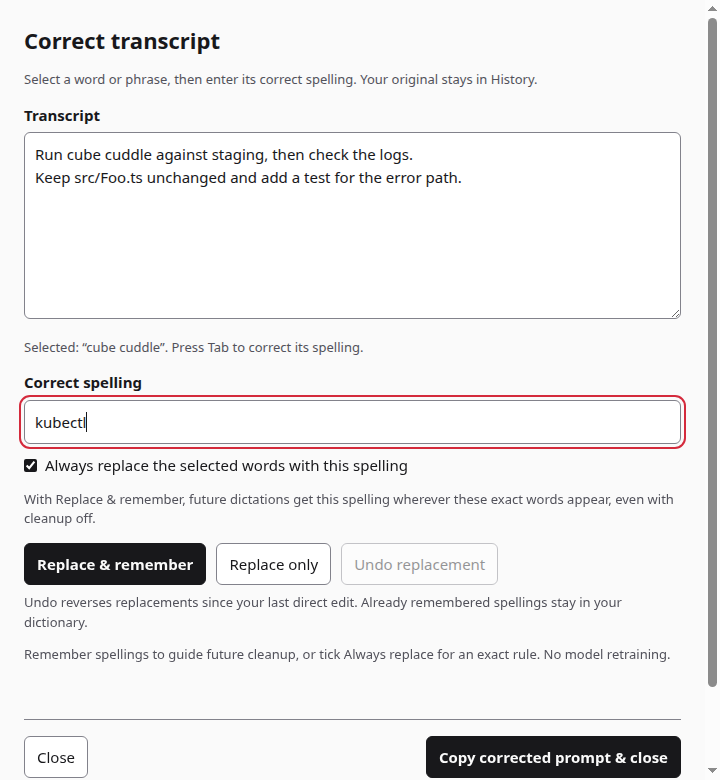
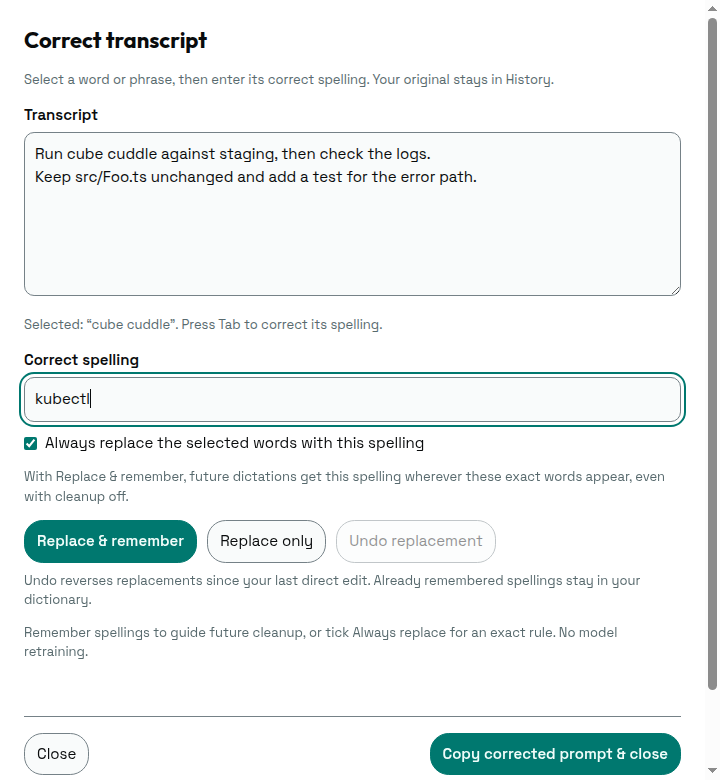
fix: address Maia theme review findings

diff --git a/scripts/screenshots.js b/scripts/screenshots.js
@@ -1,5 +1,5 @@
-// Capture the real windows, staged headlessly. Defaults to docs/screenshots/;
-// set EARHEART_SCREENSHOTS_DIR to save a comparison run elsewhere. Run with:
+// Capture the real windows, staged headlessly. Defaults to docs/screenshots/.
+// Set EARHEART_SCREENSHOTS_DIR to capture the expanded comparison set there.
 //
 //   make screenshots
 //
@@ -18,7 +18,8 @@ const { isolateProfile, assertIsolated } = require("./demo-profile");
 const profile = isolateProfile(app);
 
 const ROOT = path.join(__dirname, "..");
-const OUT = process.env.EARHEART_SCREENSHOTS_DIR || path.join(ROOT, "docs", "screenshots");
+const comparisonDir = process.env.EARHEART_SCREENSHOTS_DIR;
+const OUT = comparisonDir || path.join(ROOT, "docs", "screenshots");
 const windows = require(path.join(ROOT, "main", "windows.js"));
 const ipc = require(path.join(ROOT, "main", "ipc.js"));
 const { waitForLoad } = require("./wait-for-load");
@@ -80,6 +81,42 @@ async function shootUsage(settings, suffix = "") {
   await shot(settings, `settings-usage${suffix}`);
 }
 
+function installComparisonFixtures() {
+  const usage = require("../main/usage");
+  const today = usage.localDayKey(new Date());
+  const yesterday = usage.addDays(today, -1);
+  fs.writeFileSync(path.join(app.getPath("userData"), "usage.json"), JSON.stringify({
+    version: usage.VERSION,
+    since: yesterday,
+    totals: { takes: 12, words: 1840, speechMs: 731000 },
+    days: {
+      [yesterday]: { takes: 5, words: 610, speechMs: 240000 },
+      [today]: { takes: 7, words: 1230, speechMs: 491000 },
+    },
+  }));
+  ipcMain.handle("approval:get", () => ({
+    id: "demo-approval",
+    server: "Project notes",
+    tool: "find_note",
+    description: "Searches the local project notes for a matching title.",
+    args: '{\n  "query": "Release checklist"\n}',
+    expiresAt: Date.now() + 30_000,
+  }));
+  ipcMain.handle("command:get", () => ({
+    ok: true,
+    view: {
+      id: "demo-command",
+      mode: "rewrite",
+      phase: "ready",
+      selection: "Could somebody make sure the documentation is updated before we ship?",
+      instruction: "Turn that into a concise release checklist item.",
+      output: "Update the documentation before release.",
+      canCopy: true,
+      canApply: true,
+    },
+  }));
+}
+
 // The correction editor with a staged spelling fix: synthetic transcript, no
 // dictionary or history writes.
 async function shootCorrection(name) {
@@ -136,45 +173,13 @@ async function main() {
   // As main.js wires them: the overlay's resize (the update card grows the
   // window) and custom models from the settings.
   windows.init();
-  const usage = require("../main/usage");
-  const today = usage.localDayKey(new Date());
-  const yesterday = usage.addDays(today, -1);
-  fs.writeFileSync(path.join(app.getPath("userData"), "usage.json"), JSON.stringify({
-    version: 1,
-    since: yesterday,
-    totals: { takes: 12, words: 1840, speechMs: 731000 },
-    days: {
-      [yesterday]: { takes: 5, words: 610, speechMs: 240000 },
-      [today]: { takes: 7, words: 1230, speechMs: 491000 },
-    },
-  }));
-  usage.init();
+  if (comparisonDir) installComparisonFixtures();
+  require("../main/usage").init();
   require(path.join(ROOT, "main", "engines", "catalog.js")).bindCustomModels(require(path.join(ROOT, "main", "settings.js")));
   ipc.init({
     applyHotkeys: () => ({ hotkey: { ok: true }, pauseHotkey: { ok: true } }),
     onSettingsChanged: () => {},
   });
-  ipcMain.handle("approval:get", () => ({
-    id: "demo-approval",
-    server: "Project notes",
-    tool: "find_note",
-    description: "Searches the local project notes for a matching title.",
-    args: '{\n  "query": "Release checklist"\n}',
-    expiresAt: Date.now() + 30_000,
-  }));
-  ipcMain.handle("command:get", () => ({
-    ok: true,
-    view: {
-      id: "demo-command",
-      mode: "rewrite",
-      phase: "ready",
-      selection: "Could somebody make sure the documentation is updated before we ship?",
-      instruction: "Turn that into a concise release checklist item.",
-      output: "Update the documentation before release.",
-      canCopy: true,
-      canApply: true,
-    },
-  }));
 
   paletteController = require("../main/palette").createPalette({
     windows: { ...windows, createPaletteWindow: () => { paletteWindow = windows.createPaletteWindow(); return paletteWindow; } },
@@ -217,13 +222,13 @@ async function main() {
   })()`);
   await sleep(300);
   await shot(settings, "settings-record-sounds");
-  await shootUsage(settings);
+  if (comparisonDir) await shootUsage(settings);
   settings.close();
 
   // Correction: synthetic transcript, no dictionary/history writes.
   await shootCorrection("correction");
   await shootPalette("palette-dark");
-  await shootDialogs();
+  if (comparisonDir) await shootDialogs();
 
   // Overlay: staged recording and done states. setStatus/waveHistory/
   // drawMeter/timerEl are top-level bindings in overlay.js, reachable from
@@ -316,12 +321,12 @@ async function main() {
   await waitForLoad(lightSettings.webContents);
   await sleep(1200);
   await shot(lightSettings, "settings-light");
-  await shootUsage(lightSettings, "-light");
+  if (comparisonDir) await shootUsage(lightSettings, "-light");
   lightSettings.close();
 
   await shootCorrection("correction-light");
   await shootPalette("palette-light");
-  await shootDialogs("-light");
+  if (comparisonDir) await shootDialogs("-light");
 
   const lightOverlay = windows.createOverlay();
   await waitForLoad(lightOverlay.webContents);

diff --git a/scripts/theme-smoke.js b/scripts/theme-smoke.js
@@ -119,8 +119,13 @@ async function checkSettingsTheme({ waitFor, check, savedThenClose }) {
     return true;
   })()`);
   await waitFor(() => run(`document.querySelector(".tab[aria-current]")?.dataset.tab === "history"`), "scrolling did not light History");
+  // Scroll anchoring adjusts scrollTop if controls above History reflow.
+  // Measure the heading relative to the scroller to catch visible movement.
   const snapshot = () => run(`JSON.stringify({
-    scrollTop: Math.round(document.querySelector("main").scrollTop),
+    historyTop: Math.round(
+      document.getElementById("tab-history").getBoundingClientRect().top -
+      document.querySelector("main").getBoundingClientRect().top
+    ),
     active: document.querySelector(".tab[aria-current]")?.dataset.tab,
     expanded: !!document.querySelector("#history-list li.expanded"),
     probe: window.__themeProbe,
@@ -171,7 +176,7 @@ async function checkSettingsTheme({ waitFor, check, savedThenClose }) {
   await waitFor(() => bgHex(win) === INK.dark, "the native background did not follow the flip", 300);
   const afterFlip = await snapshot();
   check("a theme flip keeps unsaved edits and the page as it was",
-    loads === 0 && afterFlip.maxSeconds === edited && afterFlip.scrollTop === before.scrollTop &&
+    loads === 0 && afterFlip.maxSeconds === edited && afterFlip.historyTop === before.historyTop &&
       afterFlip.active === before.active && afterFlip.expanded && afterFlip.probe === "kept",
     JSON.stringify({ loads, afterFlip, edited }));
 

diff --git a/renderer/wizard.css b/renderer/wizard.css
@@ -36,7 +36,7 @@ footer {
   justify-content: space-between;
 }
 
-/* Step position as a row of dots with the current one in teal. */
+/* An outline distinguishes the current step independently of its fill. */
 .dots {
   display: flex;
   gap: 7px;
@@ -53,6 +53,8 @@ footer {
 
 .dot.active {
   background: var(--primary);
+  outline: 2px solid var(--focus);
+  outline-offset: 1px;
 }
 
 /* ---------- "how it works" demo on the welcome step ---------- */

diff --git a/DESIGN.md b/DESIGN.md
@@ -324,9 +324,9 @@ with no reload. Rules:
 ### Wayfinding hues (settings window only)
 Eight hues, one per settings section, worn by the index glyph and its matching
 legend glyph and nothing else. Derived in OKLCH at one lightness and chroma
-(L≈0.72, C≈0.10) so no section outranks another; each clears 6.8:1 on Bar Ink.
-The light set keeps the hues at L≈0.50, C≈0.09 (cyan at its in-gamut ≈0.08)
-and clears 5.0:1 on a card.
+(L≈0.72, C≈0.10) so no section outranks another. The light set keeps the hues
+at L≈0.50, C≈0.09 (cyan at its in-gamut ≈0.08). The contrast checks cover
+the section colors on Bar Ink and Surface in both palettes.
 They name a place, never a state.
 - **Section General** (`section-general`, #79a7e2): blue — mic glyph.
 - **Section Live transcript** (`section-live`, #9cae65): lime — waveform glyph.
@@ -708,10 +708,9 @@ transcription** and a quiet **Discard**.
   version heading per release.
 
 ### Wizard step dots
-- 7px circles in `--dot` at rest — white 0.35 in dark (3.23:1), black 0.45
-  in light (3.33:1), clearing the 3:1 UI bar on the ink — solid teal
-  when active; centered in the footer with an sr-only spoken
-  counterpart.
+- The footer centers 7px step dots. The current step has a teal fill and a
+  2px outline with a 1px offset so its shape distinguishes it from the
+  remaining steps. A screen-reader label announces the current step.
 
 ### Wizard demo (welcome step)
 - Three Mist demo cards with 11px captions: `kbd` keycaps (wash fill,

diff --git a/CONTRIBUTING.md b/CONTRIBUTING.md
@@ -532,6 +532,9 @@ overlay in the light palette. If the UI changes, re-capture them:
 make screenshots       # runs scripts/screenshots.js under xvfb
 ```
 
+Set `EARHEART_SCREENSHOTS_DIR` to capture the comparison set in another
+directory, including Usage, tool approval, and voice commands in both palettes.
+
 The capture runs in a throwaway demo profile (`scripts/demo-profile.js`) with
 fixed settings, never your own: your hotkeys, microphone and setup don't reach
 the images, and your settings file is neither read nor migrated. The profile
